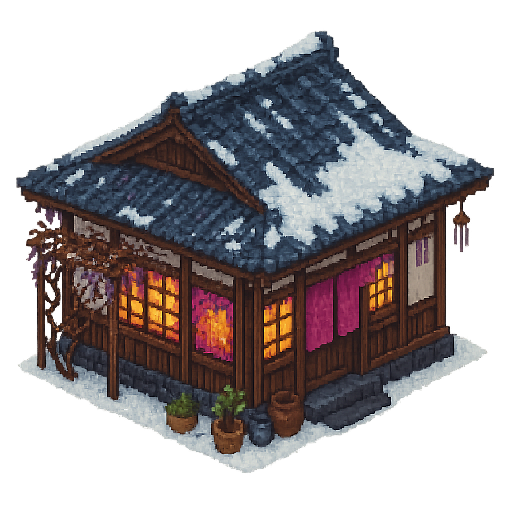
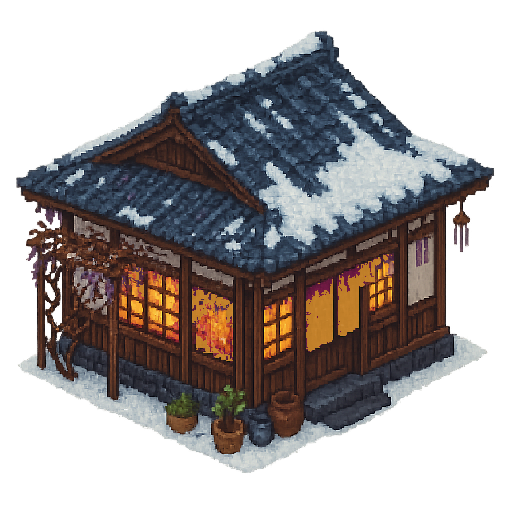
fix: Japanese yotsume-gaki fences + fix magenta windows in house-south sprite
Replace plain geometric fence lines with traditional yotsume-gaki (四つ目垣)
bamboo lattice pattern: thick vertical posts, thin horizontal rails forming
a grid, corner post emphasis, and subtle snow accumulation on top rail.

Fix house-south-l1.png: replace 3941 pink/magenta artifact pixels in window
areas with warm amber/orange glow tones.

Changed region(s): [[0.5938, 0.5, 0.75, 0.6875], [0.375, 0.5625, 0.4688, 0.7188], [0.25, 0.5312, 0.2812, 0.5938]]

diff --git a/ui/src/scenes/TownScene.js b/ui/src/scenes/TownScene.js
@@ -765,8 +765,8 @@ export default class TownScene extends Phaser.Scene {
   }
 
   _drawFences() {
-    // Connected isometric fence lines around residential yards
-    // Houses at (22,72), (62,72), (22,85), (62,85)
+    // Yotsume-gaki (四つ目垣) bamboo lattice fences around residential yards
+    // Traditional Japanese four-eye fence pattern with vertical posts and horizontal rails
     const yards = [
       { x1: 20, y1: 70, x2: 30, y2: 80 },
       { x1: 60, y1: 70, x2: 70, y2: 80 },
@@ -775,13 +775,15 @@ export default class TownScene extends Phaser.Scene {
     ];
 
     const g = this.add.graphics();
-    const WOOD = 0x5c3a1e;       // darker warm brown
-    const WOOD_DARK = 0x3d2510;  // deep brown accent
-    const POST_H = 12;           // fence post height in px
-    const RAIL_H = 7;            // horizontal rail offset
+    const WOOD = 0x5c3a1e;        // warm dark brown (bamboo base)
+    const WOOD_DARK = 0x3d2510;   // deep brown for main posts
+    const WOOD_LIGHT = 0x7a5230;  // lighter brown for cross-bars
+    const SNOW_WHITE = 0xd8dce8;  // snow accumulation color
+    const POST_H = 14;            // main post height in px
+    const POSTS_PER_EDGE = 6;     // number of vertical posts per edge
+    const RAILS = 3;              // horizontal rail count (yotsume pattern)
 
     for (const yard of yards) {
-      // Four corners in grid coords
       const corners = [
         [yard.x1, yard.y1],  // top
         [yard.x2, yard.y1],  // right
@@ -791,42 +793,47 @@ export default class TownScene extends Phaser.Scene {
       const screenCorners = corners.map(([gx, gy]) => this.gridToScreen(gx, gy));
       const midDepth = (screenCorners[0].y + screenCorners[2].y) / 2 + 4000;
 
-      // Draw each edge with posts and rails
+      // Draw each edge
       for (let i = 0; i < 4; i++) {
         const a = screenCorners[i];
         const b = screenCorners[(i + 1) % 4];
 
-        // Number of posts along this edge
-        const posts = 6;
-        for (let p = 0; p <= posts; p++) {
-          const t = p / posts;
+        // Horizontal rails (thinner bamboo cross-bars) — draw first so posts overlap
+        for (let r = 0; r < RAILS; r++) {
+          const railY = POST_H - (r * (POST_H - 2)) / (RAILS - 1);
+          g.lineStyle(1.5, WOOD_LIGHT, 0.7);
+          g.beginPath();
+          g.moveTo(a.x, a.y - railY);
+          g.lineTo(b.x, b.y - railY);
+          g.strokePath();
+        }
+
+        // Vertical posts (thicker bamboo uprights)
+        for (let p = 0; p <= POSTS_PER_EDGE; p++) {
+          const t = p / POSTS_PER_EDGE;
           const px = a.x + (b.x - a.x) * t;
           const py = a.y + (b.y - a.y) * t;
 
-          // Fence post (vertical line)
-          g.lineStyle(3, WOOD_DARK, 0.9);
+          // Main post — thicker at corners
+          const isCorner = p === 0 || p === POSTS_PER_EDGE;
+          const postWidth = isCorner ? 4 : 3;
+          g.lineStyle(postWidth, WOOD_DARK, 0.9);
           g.beginPath();
           g.moveTo(px, py);
           g.lineTo(px, py - POST_H);
           g.strokePath();
 
-          // Post cap
+          // Post cap (rounded bamboo top)
           g.fillStyle(WOOD, 1);
-          g.fillRect(px - 1.5, py - POST_H - 1, 3, 2);
+          const capW = isCorner ? 5 : 3;
+          g.fillRect(px - capW / 2, py - POST_H - 1, capW, 2);
         }
 
-        // Top rail
-        g.lineStyle(2.5, WOOD, 0.85);
+        // Snow accumulation on top rail
+        g.lineStyle(2, SNOW_WHITE, 0.3);
         g.beginPath();
-        g.moveTo(a.x, a.y - POST_H + 1);
-        g.lineTo(b.x, b.y - POST_H + 1);
-        g.strokePath();
-
-        // Bottom rail
-        g.lineStyle(2.5, WOOD, 0.75);
-        g.beginPath();
-        g.moveTo(a.x, a.y - RAIL_H);
-        g.lineTo(b.x, b.y - RAIL_H);
+        g.moveTo(a.x, a.y - POST_H);
+        g.lineTo(b.x, b.y - POST_H);
         g.strokePath();
       }
 
